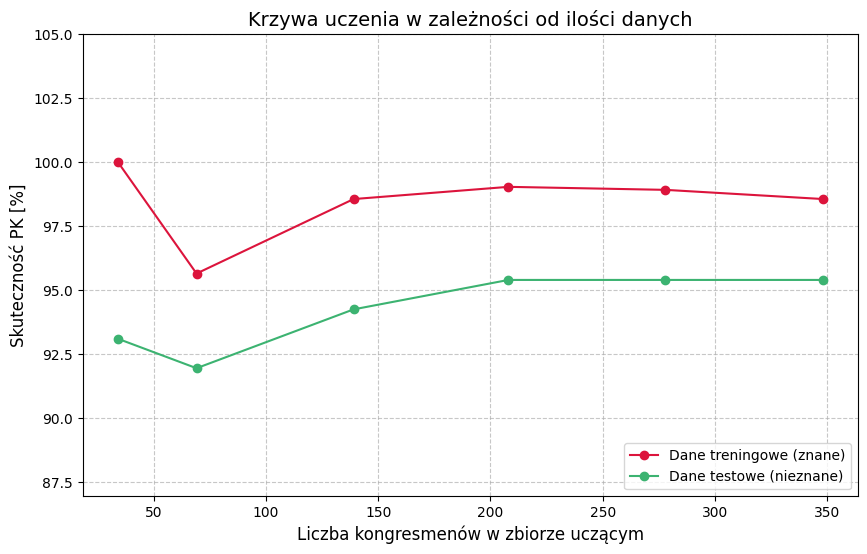
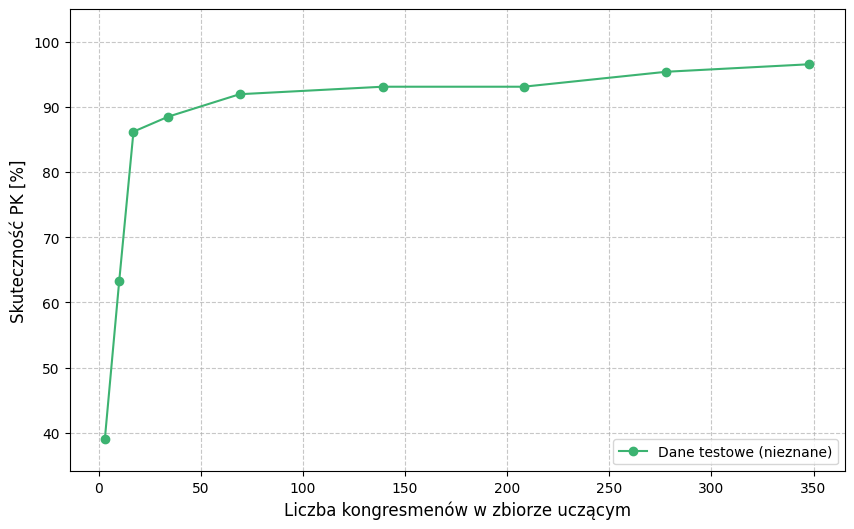
Zmiejniono eksperyment 4

diff --git a/projektAI.tex b/projektAI.tex
@@ -777,7 +777,7 @@ lastline=140,
 breaklines=true,
 numbers=left,
 frame=single,
-caption={Skrypt eksperymentu nr 2: przeszukiwanie siatki \texttt{lr} i \texttt{mc} (\texttt{exp2\_parametry\_uczenia.py})},
+caption={Eksperyment nr 2: przeszukiwanie siatki \texttt{lr} i \texttt{mc} (\texttt{exp2\_parametry\_uczenia.py})},
 label={lst:exp2_parametry_uczenia_py}
 ]{exp2_parametry_uczenia.py}
 
@@ -829,7 +829,7 @@ lastline=220,
 breaklines=true,
 numbers=left,
 frame=single,
-caption={Skrypt eksperymentu nr 3: analiza wa\.zno\'sci g{\l}osowa\'n (\texttt{exp3\_waznosc\_glosowan.py})},
+caption={Eksperyment nr 3: analiza wa\.zno\'sci g{\l}osowa\'n},
 label={lst:exp3_waznosc_glosowan_py}
 ]{exp3_waznosc_glosowan.py}
 
@@ -849,20 +849,7 @@ Analiza wykresu pokazuje, że wpływ cech na decyzję sieci nie jest równomiern
 Eksperyment potwierdza, że największy wpływ na jakość klasyfikacji mają głosowania, w których odpowiedzi \textit{tak/nie} były najsilniej spolaryzowane między demokratami i republikanami.
 
 \subsection{Eksperyment nr 4}
-
-W eksperymencie nr 4 badano wpływ liczby danych uczących na jakość klasyfikacji.
-Założeniem było sprawdzenie, jak zmienia się skuteczność modelu na danych znanych
-(treningowych) oraz na danych nieznanych (testowych), gdy stopniowo zwiększa się
-rozmiar zbioru uczącego.
-
-\subsubsection*{Założenia eksperymentu}
-W badaniu przyjęto następującą procedurę:
-\begin{itemize}[label={\textbullet}]
-\item dane podzielono na stałą pulę uczącą i stały zbiór testowy (\texttt{20\%}),
-\item z puli uczącej tworzono podzbiory o frakcjach: \texttt{10\%, 20\%, 40\%, 60\%, 80\%, 100\%},
-\item dla każdego podzbioru trenowano nową instancję sieci,
-\item po uczeniu mierzono skuteczność \texttt{PK} oddzielnie na danych treningowych i testowych.
-\end{itemize}
+W eksperymencie zbadano wpływ rozmiaru zbioru uczącego na zdolność uogólniania sieci. Z danych wydzielono stały zbiór testowy (20\%), z pozostałej puli tworzono rosnące podzbiory treningowe o określonych frakcjach. Dla każdego podzbioru trenowano nową instancję sieci o stałej architekturze i parametrach, po czym oceniano jej skuteczność wyłącznie na stałym zbiorze testowym. Celem było zaobserwowanie, jak zwiększanie liczby próbek uczących wpływa na stabilność i jakość predykcji ocenianych na niezależnym zbiorze testowym.
 
 Implementację eksperymentu przedstawiono na listingu \ref{lst:exp4_ilosc_danych_py}.
 
@@ -874,37 +861,24 @@ lastline=220,
 breaklines=true,
 numbers=left,
 frame=single,
-caption={Skrypt eksperymentu nr 4: wp{\l}yw liczby danych ucz\k{a}cych (\texttt{exp4\_ilosc\_danych.py})},
+caption={Eksperyment nr 4: wp{\l}yw liczby danych ucz\k{a}cych},
 label={lst:exp4_ilosc_danych_py}
 ]{exp4_ilosc_danych.py}
 
-Na listingu \ref{lst:exp4_ilosc_danych_py} skrypt:
-\begin{itemize}[label={\textbullet}]
-\item przygotowuje podział \texttt{train/test} z zachowaniem proporcji klas (\texttt{stratify}),
-\item tworzy serię coraz większych podzbiorów uczących,
-\item dla każdego podzbioru trenuje sieć i oblicza \texttt{PK} na treningu oraz na teście,
-\item zapisuje wyniki do dwóch krzywych: treningowej i testowej,
-\item generuje wykres krzywych uczenia i zapisuje go jako \texttt{Fig.4\_Ilosc\_Danych\_kongres.png}.
-\end{itemize}
+Skrypt przygotowuje podział \texttt{train/test} (20\% test), tworzy podzbiory treningowe o zadanych frakcjach, trenuje dla każdego podzbioru nową sieć oraz mierzy skuteczność \texttt{PK} wyłącznie na stałym zbiorze testowym. Wyniki są zapisywane i rysowane jako pojedyncza krzywa przedstawiająca skuteczność testową w funkcji liczby próbek uczących.
 
 Wyniki eksperymentu przedstawiono na rysunku \ref{fig:exp4_learning_curve}.
 
 \begin{figure}[ht]
 \centering
 \includegraphics[width=0.9\textwidth]{Fig.4_Ilosc_Danych_kongres.png}
-\caption{Eksperyment nr 4: skuteczność \texttt{PK [\%]} w funkcji liczby próbek uczących}
+\caption{Skuteczność \texttt{PK [\%]} w funkcji liczby próbek uczących}
 \label{fig:exp4_learning_curve}
 \end{figure}
 
-Interpretacja wykresu jest zgodna z typowym przebiegiem krzywych uczenia.
-Dla małych zbiorów model może osiągać wysoką skuteczność na treningu,
-natomiast jakość na teście jest niższa i bardziej niestabilna. Wraz ze wzrostem
-liczby próbek uczących krzywa testowa zwykle rośnie i stabilizuje się,
-co wskazuje na lepszą zdolność uogólniania.
+Dla bardzo małych zbiorów uczących skuteczność testowa jest niska, natomiast wraz ze wzrostem liczby próbek testowa skuteczność rośnie i stopniowo stabilizuje się, co świadczy o poprawie zdolności klasyfikacji modelu.
 
-\textbf{Wniosek:} zwiększanie liczby danych uczących poprawia stabilność i wiarygodność
-predykcji sieci. Eksperyment nr 4 pokazuje, że dalsze rozszerzanie zbioru danych
-jest jednym z najskuteczniejszych sposobów poprawy jakości modelu.
+Eksperyment pokazuje, że zwiększanie liczby danych uczących poprawia skuteczność i stabilność predykcji ocenianych na niezależnym zbiorze testowym, jednak po przekroczeniu pewnego progu, dalsze zwiększanie liczby próbek przynosi coraz mniejsze korzyści.
 
 \subsection{Eksperyment nr 5}
 

diff --git a/exp4_ilosc_danych.py b/exp4_ilosc_danych.py
@@ -6,37 +6,31 @@ from sklearn.model_selection import train_test_split
 
 from mlp_core import mlp_m_3w # IMPORT NASZEJ SIECI
 
-# 1. Wczytywanie danych
 x, y_t, x_norm, x_n_s, y_t_s = hkl.load('kongres.hkl')
 
-# Transpozycja na potrzeby podziału (scikit-learn woli format [próbki, cechy])
 X_all = x_norm.T  
 Y_all = y_t.T     
 
 # 2. Parametry sieci
-K1_fixed, K2_fixed = 5, 8
-max_epoch = 60
+K1_fixed, K2_fixed = 8, 5
+max_epoch = 80
 err_goal = 0.05 
 disp_freq = 10 
-lr_fixed = 1e-3
-mc_fixed = 0.9
+lr_fixed = 1e-4
+mc_fixed = 0.80
 
-# 3. Zostawiamy 20% danych jako stały zbiór testowy, którego sieć NIGDY nie zobaczy podczas nauki
+
 X_train_pula, X_test, Y_train_pula, Y_test = train_test_split(
     X_all, Y_all, test_size=0.2, stratify=Y_all, random_state=42
 )
 
-# Frakcje danych treningowych do przetestowania: 10%, 20%, 40%, 60%, 80%, 100%
-frakcje = [0.1, 0.2, 0.4, 0.6, 0.8, 1.0]
+frakcje = [0.01, 0.03, 0.05, 0.1, 0.2, 0.4, 0.6, 0.8, 1.0]
 
-wyniki_treningowe = []
 wyniki_testowe = []
 liczba_probek_oX = []
 
-print("--- EKSPERYMENT 4: WPŁYW ILOŚCI DANYCH NA NAUKĘ ---")
 
 for frac in frakcje:
-    # Pobieramy odpowiedni procent z puli treningowej
     if frac < 1.0:
         X_train_sub, _, Y_train_sub, _ = train_test_split(
             X_train_pula, Y_train_pula, train_size=frac, stratify=Y_train_pula, random_state=42
@@ -46,31 +40,19 @@ for frac in frakcje:
         
     aktualna_liczba = X_train_sub.shape[0]
     liczba_probek_oX.append(aktualna_liczba)
-    print(f"Trenowanie na {aktualna_liczba} próbkach ({frac*100}% puli)...")
-    
-    # Tworzymy czystą sieć (pamiętamy o powrocie do formatu [cechy, próbki] używając .T)
+
     mlp_test = mlp_m_3w(X_train_sub.T, Y_train_sub.T, K1_fixed, K2_fixed, lr_fixed, err_goal, disp_freq, mc_fixed, max_epoch, True)
     mlp_test.train(X_train_sub.T, Y_train_sub.T)
-    
-    # --- OCENA SKUTECZNOŚCI ---
-    # Na danych treningowych (tych z podzbioru)
-    pred_train = mlp_test.predict(X_train_sub.T)
-    pk_train = np.mean(np.where(pred_train >= 0, 1, -1) == Y_train_sub.T) * 100
-    wyniki_treningowe.append(pk_train)
-    
-    # Na STAŁYM zbiorze testowym
+
     pred_test = mlp_test.predict(X_test.T)
     pk_test = np.mean(np.where(pred_test >= 0, 1, -1) == Y_test.T) * 100
     wyniki_testowe.append(pk_test)
 
 print("Zakończono.\n")
 
-# 4. Rysowanie wykresu
 plt.figure(figsize=(10, 6))
-plt.plot(liczba_probek_oX, wyniki_treningowe, 'o-', color='crimson', label='Dane treningowe (znane)')
 plt.plot(liczba_probek_oX, wyniki_testowe, 'o-', color='mediumseagreen', label='Dane testowe (nieznane)')
 
-plt.title('Krzywa uczenia w zależności od ilości danych', fontsize=14)
 plt.xlabel('Liczba kongresmenów w zbiorze uczącym', fontsize=12)
 plt.ylabel('Skuteczność PK [%]', fontsize=12)
 plt.legend(loc="lower right")
